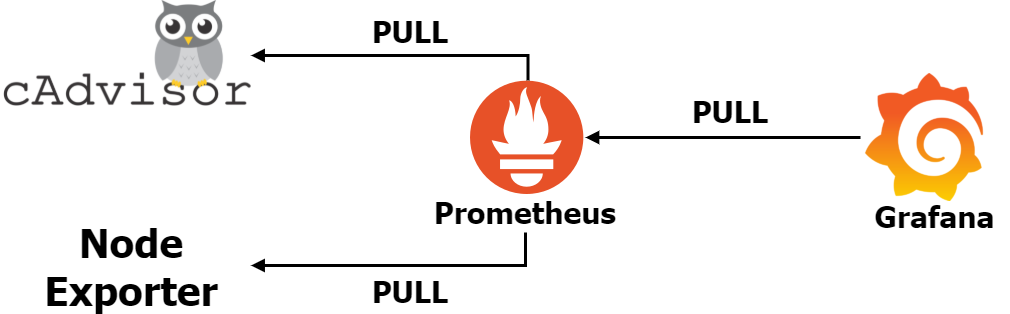
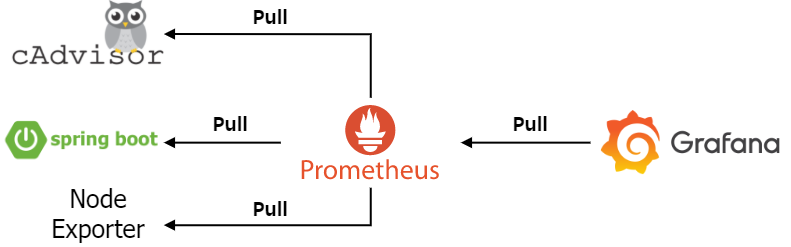
Edit file

diff --git a/readme.md b/readme.md
@@ -16,6 +16,7 @@ Prometheus hello world 프로젝트
     - ./grafana/grafana.ini
         - server.domain: 도메인 설정 필요
         - server.cert_file, server.cert_key: 인증서 관련 파일 경로 설정 필요
+        - security.admin_password: Grafana 관리자 계정 비밀번호 설정 필요
     - ./grafana/provisioning/datasources/datasources.yml
         - datasources.url: Prometheus endpoint 설정 필요
 
@@ -34,7 +35,9 @@ Docker를 이용해 설치 및 실행하며 여러 docker image를 사용하기 
 - Cadvisor: [v0.37.5](https://github.com/google/cadvisor/releases/tag/v0.37.5)
 - Node-exporter: [v1.3.1](https://github.com/prometheus/node_exporter/releases/tag/v1.3.1)
 - Grafana: [8.3.3](https://github.com/grafana/grafana/releases/tag/v8.3.3)
-
+- SpringBoot (maven dependency):
+    - spring-boot-starter-parent: [2.3.1.RELEASE](https://github.com/spring-projects/spring-boot/releases/tag/v2.3.1.RELEASE)
+    - micrometer-registry-prometheus: [1.8.2](https://github.com/micrometer-metrics/micrometer/releases/tag/v1.8.2)
 ## 3.3 Step by step
 1. project clone하기
    ```
@@ -42,7 +45,7 @@ Docker를 이용해 설치 및 실행하며 여러 docker image를 사용하기 
    ```
 2. 프로젝트 디렉토리로 이동
    ```
-   cd hello-world-prometheus.git
+   cd hello-world-prometheus
    ```
 3. docker-compose 실행 및 확인
    ```
@@ -65,6 +68,8 @@ Docker를 이용해 설치 및 실행하며 여러 docker image를 사용하기 
 - [Cadvisor](https://github.com/google/cadvisor)
 - [Node-exporter](https://github.com/prometheus/node_exporter)
 - [Grafana](https://grafana.com/docs/grafana/latest/)
+- [SpringBoot](https://docs.spring.io/spring-boot/docs/current/reference/html/actuator.html)
 
 ## 5. Etc
+- Architecture overview은 [draw.io](https://www.draw.io)를 통해 작성
 - Prometheus에 대한 고가용성(High Availability)을 위해 [Cortex](https://cortexmetrics.io/docs/)를 이용할 수 있으며 관련해서는 [hello-world-cortex]() 프로젝트 참고
